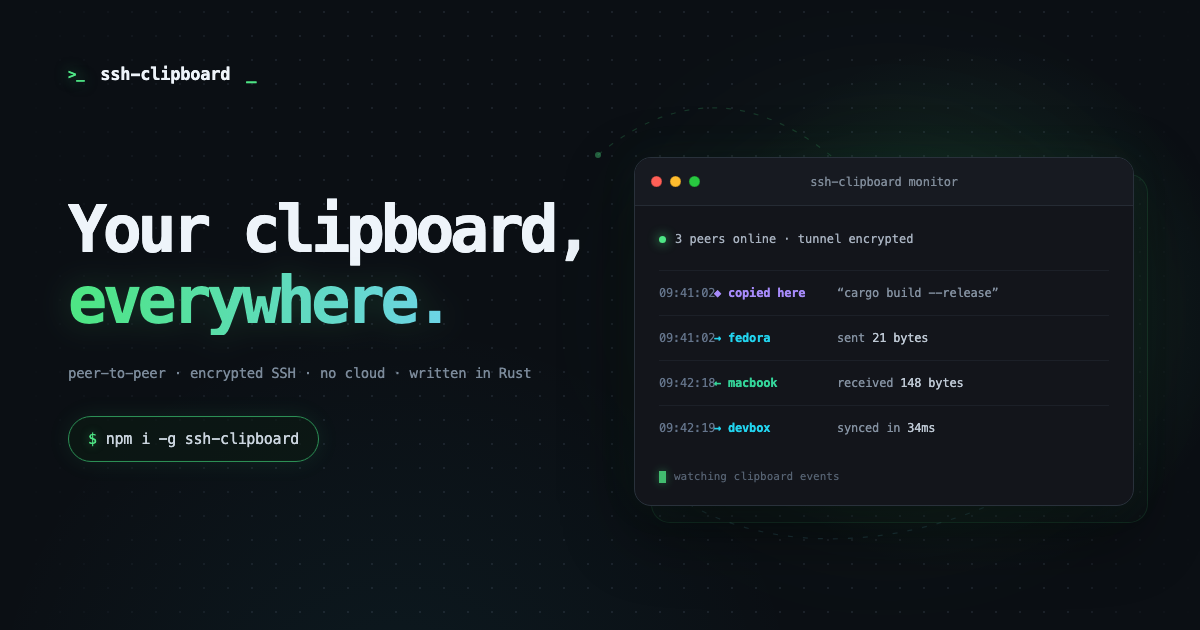
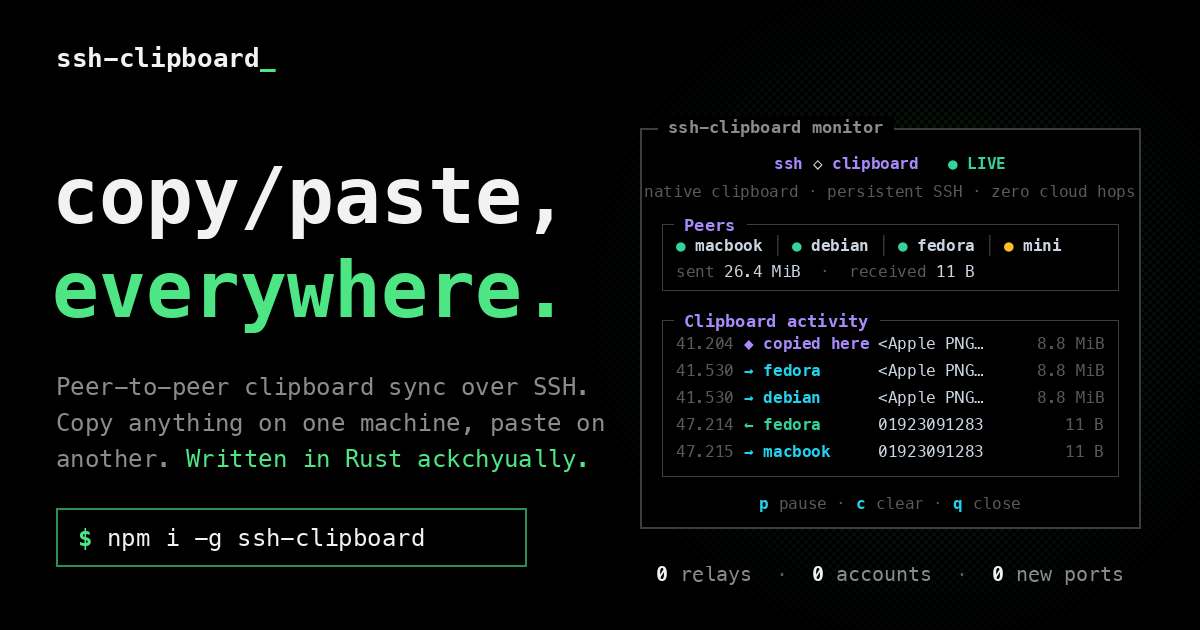
feat(site): align metadata and share card with redesign
Update the title, descriptions, and OG/Twitter tags to the copy/paste-
everywhere voice, regenerate the 1200x630 share card in the 1-bit
black/white/green style with the monitor TUI, square the favicon on
pure black, and set the theme color to black.

diff --git a/docs/index.html b/docs/index.html
@@ -3,15 +3,15 @@
   <head>
     <meta charset="UTF-8" />
     <meta name="viewport" content="width=device-width, initial-scale=1.0" />
-    <title>ssh-clipboard — peer-to-peer clipboard sync over SSH</title>
+    <title>ssh-clipboard — copy/paste, everywhere</title>
     <meta
       name="description"
-      content="Your clipboard. Every machine. No cloud. Peer-to-peer clipboard sync over encrypted SSH for macOS and Linux. Written in Rust ackchyually."
+      content="Peer-to-peer clipboard sync over SSH for macOS and Linux. Copy anything on one machine, paste on another. No relay, no account, no new ports. Written in Rust ackchyually."
     />
-    <meta property="og:title" content="ssh-clipboard — your clipboard, everywhere" />
+    <meta property="og:title" content="ssh-clipboard — copy/paste, everywhere" />
     <meta
       property="og:description"
-      content="Peer-to-peer clipboard sync over encrypted SSH. No relay, no account, no cloud. Written in Rust ackchyually."
+      content="Peer-to-peer clipboard sync over SSH. Copy anything on one machine, paste on another. No relay, no account, no new ports."
     />
     <meta property="og:type" content="website" />
     <meta property="og:url" content="https://ssh-clipboard.standardagents.ai/" />
@@ -22,17 +22,17 @@
     <meta property="og:image:type" content="image/png" />
     <meta
       property="og:image:alt"
-      content="ssh-clipboard: Your clipboard, everywhere. Peer-to-peer clipboard sync over encrypted SSH."
+      content="ssh-clipboard: copy/paste, everywhere. Peer-to-peer clipboard sync over SSH, shown as a terminal monitor dashboard."
     />
     <meta name="twitter:card" content="summary_large_image" />
-    <meta name="twitter:title" content="ssh-clipboard — your clipboard, everywhere" />
+    <meta name="twitter:title" content="ssh-clipboard — copy/paste, everywhere" />
     <meta
       name="twitter:description"
-      content="Peer-to-peer clipboard sync over encrypted SSH. No relay, no account, no cloud. Written in Rust ackchyually."
+      content="Peer-to-peer clipboard sync over SSH. Copy anything on one machine, paste on another. No relay, no account, no new ports."
     />
     <meta name="twitter:image" content="https://ssh-clipboard.standardagents.ai/og.png" />
     <link rel="canonical" href="https://ssh-clipboard.standardagents.ai/" />
-    <meta name="theme-color" content="#0b0f14" />
+    <meta name="theme-color" content="#000000" />
     <link rel="icon" type="image/svg+xml" href="/favicon.svg" />
   </head>
   <body>
